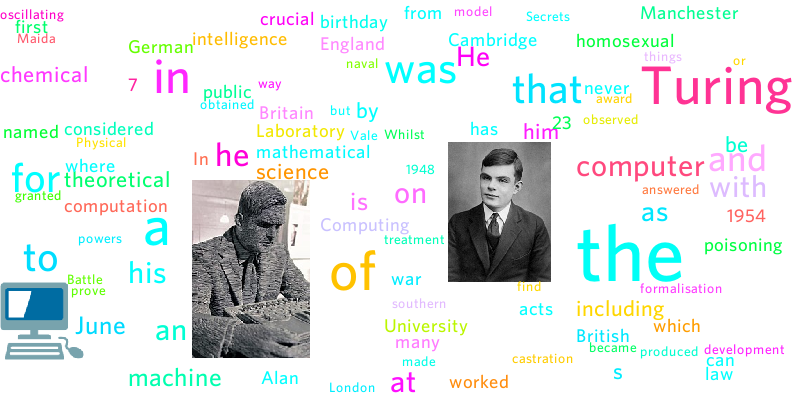
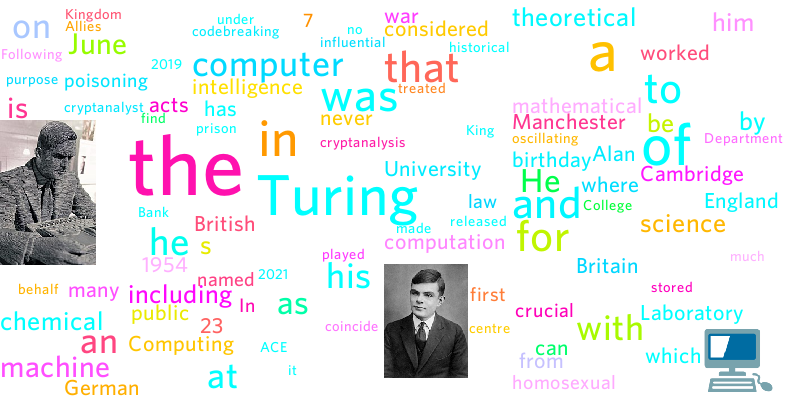
more appropriate image scaling

diff --git a/src/lib.rs b/src/lib.rs
@@ -42,9 +42,9 @@ mod tests {
             .init();
         let text = fs::read_to_string("assets/sample_text.txt").unwrap();
         let mut tokens = tokenize(text);
-        tokens.push((Token::from("assets/alan_turing.jpg"), 60.));
-        tokens.push((Token::from("assets/turing_statue_bletchley.jpg"), 80.));
-        tokens.push((Token::from("assets/computer_emoji.png"), 40.));
+        tokens.push((Token::from("assets/alan_turing.jpg"), 15.));
+        tokens.push((Token::from("assets/turing_statue_bletchley.jpg"), 20.));
+        tokens.push((Token::from("assets/computer_emoji.png"), 10.));
         let wc = WordCloud::new().generate(tokens);
         wc.save("sample_cloud.png").unwrap();
     }

diff --git a/src/builder.rs b/src/builder.rs
@@ -25,7 +25,7 @@ fn wordcloud(font: &Font, dim: (usize, usize), mut tokens: Vec<(Token, f32)>, co
         loop {
             let rasterisable: Box<dyn Rasterisable> = match token.clone() {
                 Token::Text(text) => Box::new(Text::new(text, font.clone(), (2.+size*c)*adjust, colors.get())),
-                Token::Img(image) => Box::new(Image::new(image, (2.+size*c)*adjust))
+                Token::Img(image) => Box::new(Image::new(image, (2.+size*c)*adjust*1.5))
             };
             if wc.add(rasterisable) {
                 break;
